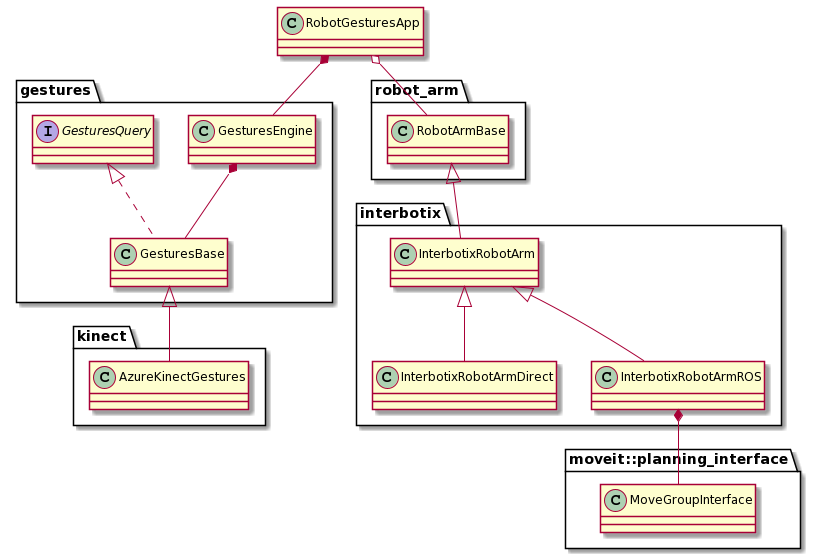
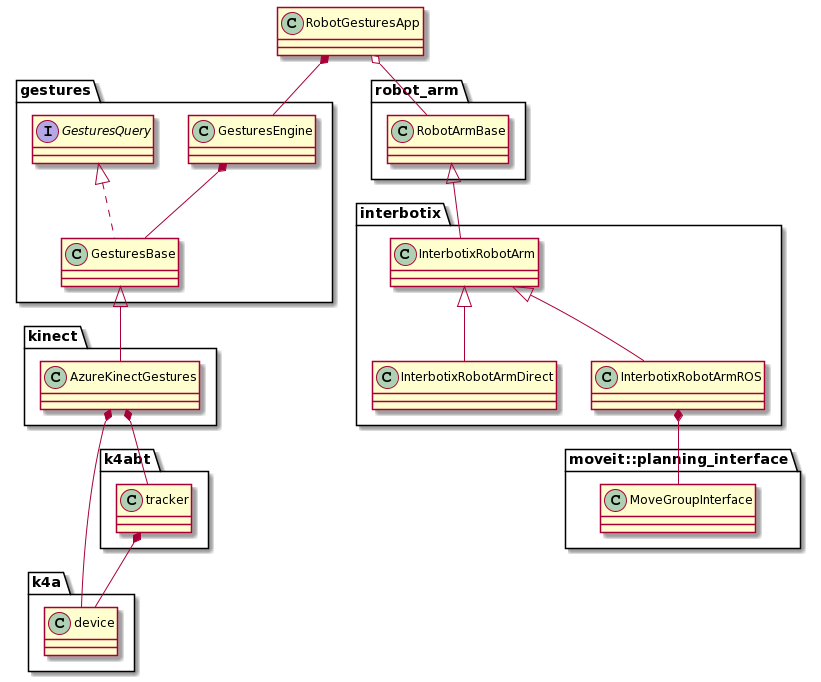
Updated UML diagram and text

diff --git a/kapitel/loesungsweg/loesungsweg.tex b/kapitel/loesungsweg/loesungsweg.tex
@@ -297,7 +297,7 @@ In Abbildung \ref{fig:perpendicular_distance_illustration} wird einer der Gesten
 \end{figure}
 \FloatBarrier
 
-Die Roboter-Gesten-Anwendung wurde mit dem Roboter-Gesten-Framework erstellt und nutzt daher dieses als Grundlage, wie in Abbildung \ref{fig:gesture_robot_system_uml} mithilfe der \quoteMark{gestures}- und \quoteMark{robot\_arm}-Pakete visualisiert wurde. In dieser Anwendung wurden zudem die ausgewählten Gesten mithilfe der Gestenerkennungsalgorithmen des Roboter-Gesten-Frameworks umgesetzt. Hierzu verwendet es die vom Roboter-Gesten-Framework angebotenen Programmierschnittstellen um die Azure Kinect und den \quoteMark{WidowX 200}-Lernroboter, welcher über ROS oder eine direkte Kommunikation angesteuert werden kann, miteinander kommunizieren lassen zu können. Um vergleichbare Kommunikationsimplementierungen für ROS und die direkte Kommunikation mit dem \quoteMark{WidowX 200}-Lernroboter gewährleisten zu können, musste für den \quoteMark{WidowX 200}-Lernroboter das \quoteMark{InterbotiX}-SDK um eine direkte Kommunikation erweitert werden. Hierfür wurden die vom Roboter-Gesten-Framework bereitgestellten Programmierschnittstellen, wie z.B. die \quoteMark{GesturesBase}-Klasse und das \quoteMark{GesturesQuery}-Interface, verwendet um die einheitliche Kommunikation mit dem \quoteMark{WidowX 200}-Lernroboter zu realisieren. Für den \quoteMark{WidowX 200}-Lernroboter und die Azure Kinect wurden daher die entsprechenden Programmierschnittstellen für die Roboter-Gesten-Anwendung implementiert. Die genannte Klassenhierarchie und Vererbungsmöglichkeiten in Abbildung \ref{fig:gesture_robot_system_uml} ermöglicht jedoch die Unterstützung beliebiger Roboter und Tiefenkameras, solange die entsprechenden Programmierschnittstellen implementiert werden.\\
+Die Roboter-Gesten-Anwendung wurde mit dem Roboter-Gesten-Framework erstellt und nutzt daher dieses als Grundlage, wie in Abbildung \ref{fig:gesture_robot_system_uml} mithilfe der \quoteMark{gestures}- und \quoteMark{robot\_arm}-Pakete visualisiert wurde. In dieser Anwendung wurden zudem die ausgewählten Gesten mithilfe der Gestenerkennungsalgorithmen des Roboter-Gesten-Frameworks umgesetzt. Hierzu verwendet es die vom Roboter-Gesten-Framework angebotenen Programmierschnittstellen um die Azure Kinect und den \quoteMark{WidowX 200}-Lernroboter, welcher über ROS mittels MoveIt oder eine direkte Kommunikation angesteuert werden kann, miteinander kommunizieren lassen zu können. Die \quoteMark{AzureKinectGestures}-Klasse verwendet hierbei die von Microsoft bereitgestellte Klasse \quoteMark{tracker}, welches für das Body Tracking zuständig ist, und \quoteMark{device}, welches ein \quoteMark{Azure Kinect}-Gerät verwaltet. Um vergleichbare Kommunikationsimplementierungen für ROS und die direkte Kommunikation mit dem \quoteMark{WidowX 200}-Lernroboter gewährleisten zu können, musste für den \quoteMark{WidowX 200}-Lernroboter das \quoteMark{InterbotiX}-SDK um eine direkte Kommunikation erweitert werden. Hierfür wurden die vom Roboter-Gesten-Framework bereitgestellten Programmierschnittstellen, wie z.B. die \quoteMark{GesturesBase}-Klasse und das \quoteMark{GesturesQuery}-Interface, verwendet um die einheitliche Kommunikation mit dem \quoteMark{WidowX 200}-Lernroboter zu realisieren. Für den \quoteMark{WidowX 200}-Lernroboter und die Azure Kinect wurden daher die entsprechenden Programmierschnittstellen für die Roboter-Gesten-Anwendung implementiert. Die genannte Klassenhierarchie und Vererbungsmöglichkeiten in Abbildung \ref{fig:gesture_robot_system_uml} ermöglicht jedoch die Unterstützung beliebiger Roboter und Tiefenkameras, solange die entsprechenden Programmierschnittstellen implementiert werden.\\
 
 \begin{figure}[!h]
     \tikzstyle{block} = [draw, fill=green!18, rectangle, minimum height=3em, minimum width=6em, rounded corners=0.05cm]
